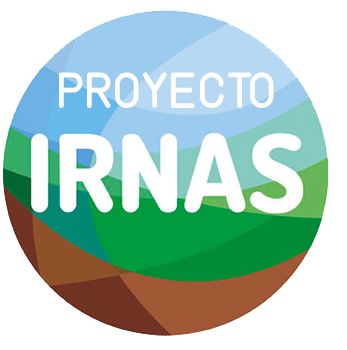
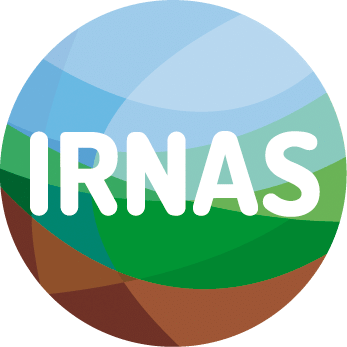
Cambios varios

diff --git a/Proyecto IRNAS 2/css/almacen.css b/Proyecto IRNAS 2/css/almacen.css
@@ -1,11 +1,39 @@
-footer{
-	margin-top: 300%;
-	border-top: 5px solid brown;
-	text-align:center;
-	clear: both;
-    position: absolute;
-    bottom: 0;
-    width: 100%;
+body{
+	position: relative;
+	min-height: 100vh;
+	margin:0;
+	background-color:pink;
 }
 
+.cabecera{
+	display: flex;
+	justify-content: center;
+	align-items: center;
+	padding-top:16px;
+}
 
+#logo{
+	width:7.5em;
+	height: 7.5em;
+}
+
+.centrado{
+	display: flex;
+	justify-content: center;
+	align-items: center;
+	margin-top:15px;
+	flex-direction: column;
+}
+
+footer{
+position: absolute;
+bottom: 0;
+width: 100%;
+height: 2.5rem;
+border-top: 5px solid brown;
+text-align:center;
+}
+
+.contenido{
+	padding-bottom: 2.5rem;
+}

diff --git a/Proyecto IRNAS 2/login.php b/Proyecto IRNAS 2/login.php
@@ -26,12 +26,14 @@
 <html lang="es">
 <head>
   <meta charset="utf-8">
+  <meta name="viewport" content="width=device-width, initial-scale=1.0">
   <link rel="stylesheet" type="text/css" href="css/almacen.css" />
+  <link rel="icon" href="images/icono.png"/>
   <title>Base de Datos: Login</title>
 </head>
 
 <body>
-
+<div class="contenido">
 <?php
 	include_once("cabecera.php");
 ?>
@@ -45,14 +47,14 @@
 	?>
 	
 	<!-- The HTML login form -->
-	<form action="login.php" method="post">
+	<form action="login.php" method="post" class="centrado">
 		<div><label for="nombre">Nombre de Usuario: </label><input type="text" name="nombre" id="nombre" /></div>
 		<div><label for="pass">Contraseña: </label><input type="password" name="pass" id="pass" /></div>
 		<input type="submit" name="submit" value="submit" />
 	</form>
 		
 </main>
-
+</div>
 <?php
 	include_once("pie.php");
 ?>

diff --git a/Proyecto IRNAS 2/cabecera.php b/Proyecto IRNAS 2/cabecera.php
@@ -1,4 +1,4 @@
 <header class='cabecera'>
-<img src="images/Irnas.png" alt="IRNAS">
-<h1>Base de Datos del IRNAS</h1>
+<img id="logo" src="images/Logo.png" alt="IRNAS">
+<h1 style="padding-left:10px">Base de Datos del IRNAS</h1>
 </header>
